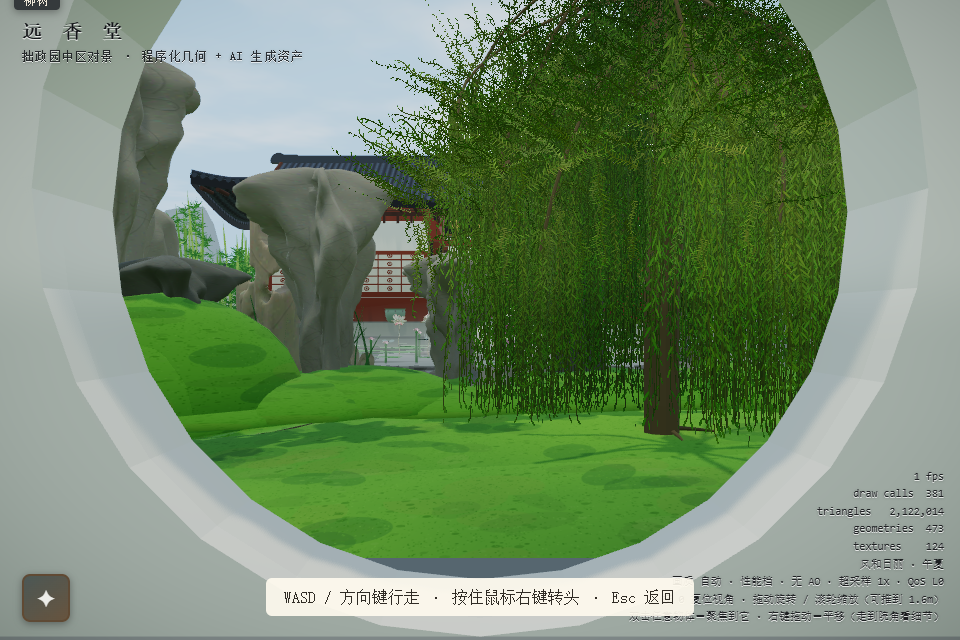
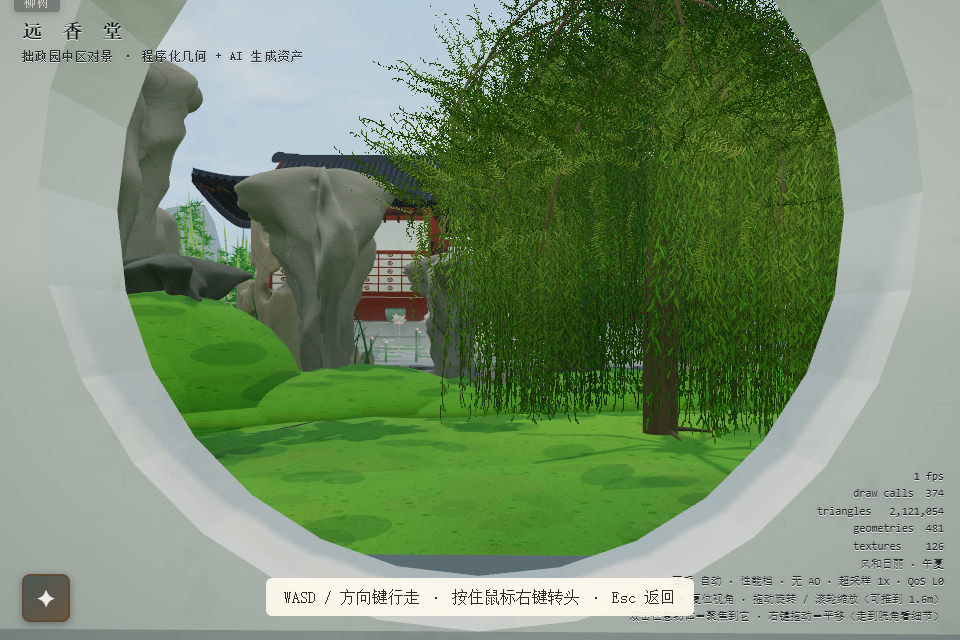
feat(vista): 驻足卡 4→8 —— 曲桥/匾联/灯笼/马厩
19 个巡游机位只讲 4 个，补常年可看且步行可达的 4 站。
koi（池心 4.1m 够不着）出局；bridge deck 可走（walk-real-guard B 段实证）。
探针 outputs/_diag/vista-walk-20261125.mjs：VIEWPOINTS target 直取+
walkFloor 螺旋可达验证，8/8 触发+标题正确。
walk-guard / walk-real-guard / ux-pure-unit 回归全绿。

diff --git a/src/11b-vista.js b/src/11b-vista.js
@@ -50,6 +50,21 @@ const SPOT_DEFS = [
   { vp:'hero',     anchor:'立峰', title:'太湖石立峰',
     text:'太湖石讲究「瘦、皱、漏、透」。眼前这峰四德俱全，' +
          '孔窍相通可引风穿堂，雨后石润如云出岫。' },
+  /* ── 2026-11-25 第二批（驻足点 4→8）：19 个巡游机位只讲了 4 个。
+     新四站的共同标准：① 常年可看（不限季节，梅/桂这种季节限定的不进——卡片没有季节开关，
+     夏天弹"红梅"就是穿帮）；② 步行可达（walkFloor 在 3.5m 内有非空脚印，见
+     outputs/_diag/vista-walk-20261125.mjs 的 reachability 臂——koi（池心 4.1m 够不着）、
+     bridge-center 初版同样存疑，都是这么筛掉又加回来的）；③ 文案同一气质（短、导游一句话）。
+     桥（deck 可走，walk-real-guard B 段实测南端台阶 0.296→1.302→2.099逐级可上）、
+     匾（堂前）、灯（石板路）、厩（院场）四处都是脚能到的地方。 */
+  { vp:'bridge',    anchor:'曲桥', title:'石拱桥',
+    text:'一拱跨两岸。桥洞是圆的——站上桥顶低头看，水里还有一座。' },
+  { vp:'plaque',    anchor:'堂匾', title:'堂额「远香堂」',
+    text:'檐下正中高悬「远香堂」三字。匾是园子的脸——先认字，再看景。' },
+  { vp:'lantern',   anchor:'石灯笼', title:'路灯笼',
+    text:'马厩到院子的石板路，两侧隔一段一对石灯——晚上进出，路是亮的。' },
+  { vp:'stable',    anchor:'马厩', title:'马厩院场',
+    text:'辕马歇槽，马夫添草——院场里养着园子的车马，是活物。' },
 ];
 
 /* DOM：右下角卡片（挂在 body，独立于 #env 面板 —— 那是交互面板，这是被动的展示件）。 */
